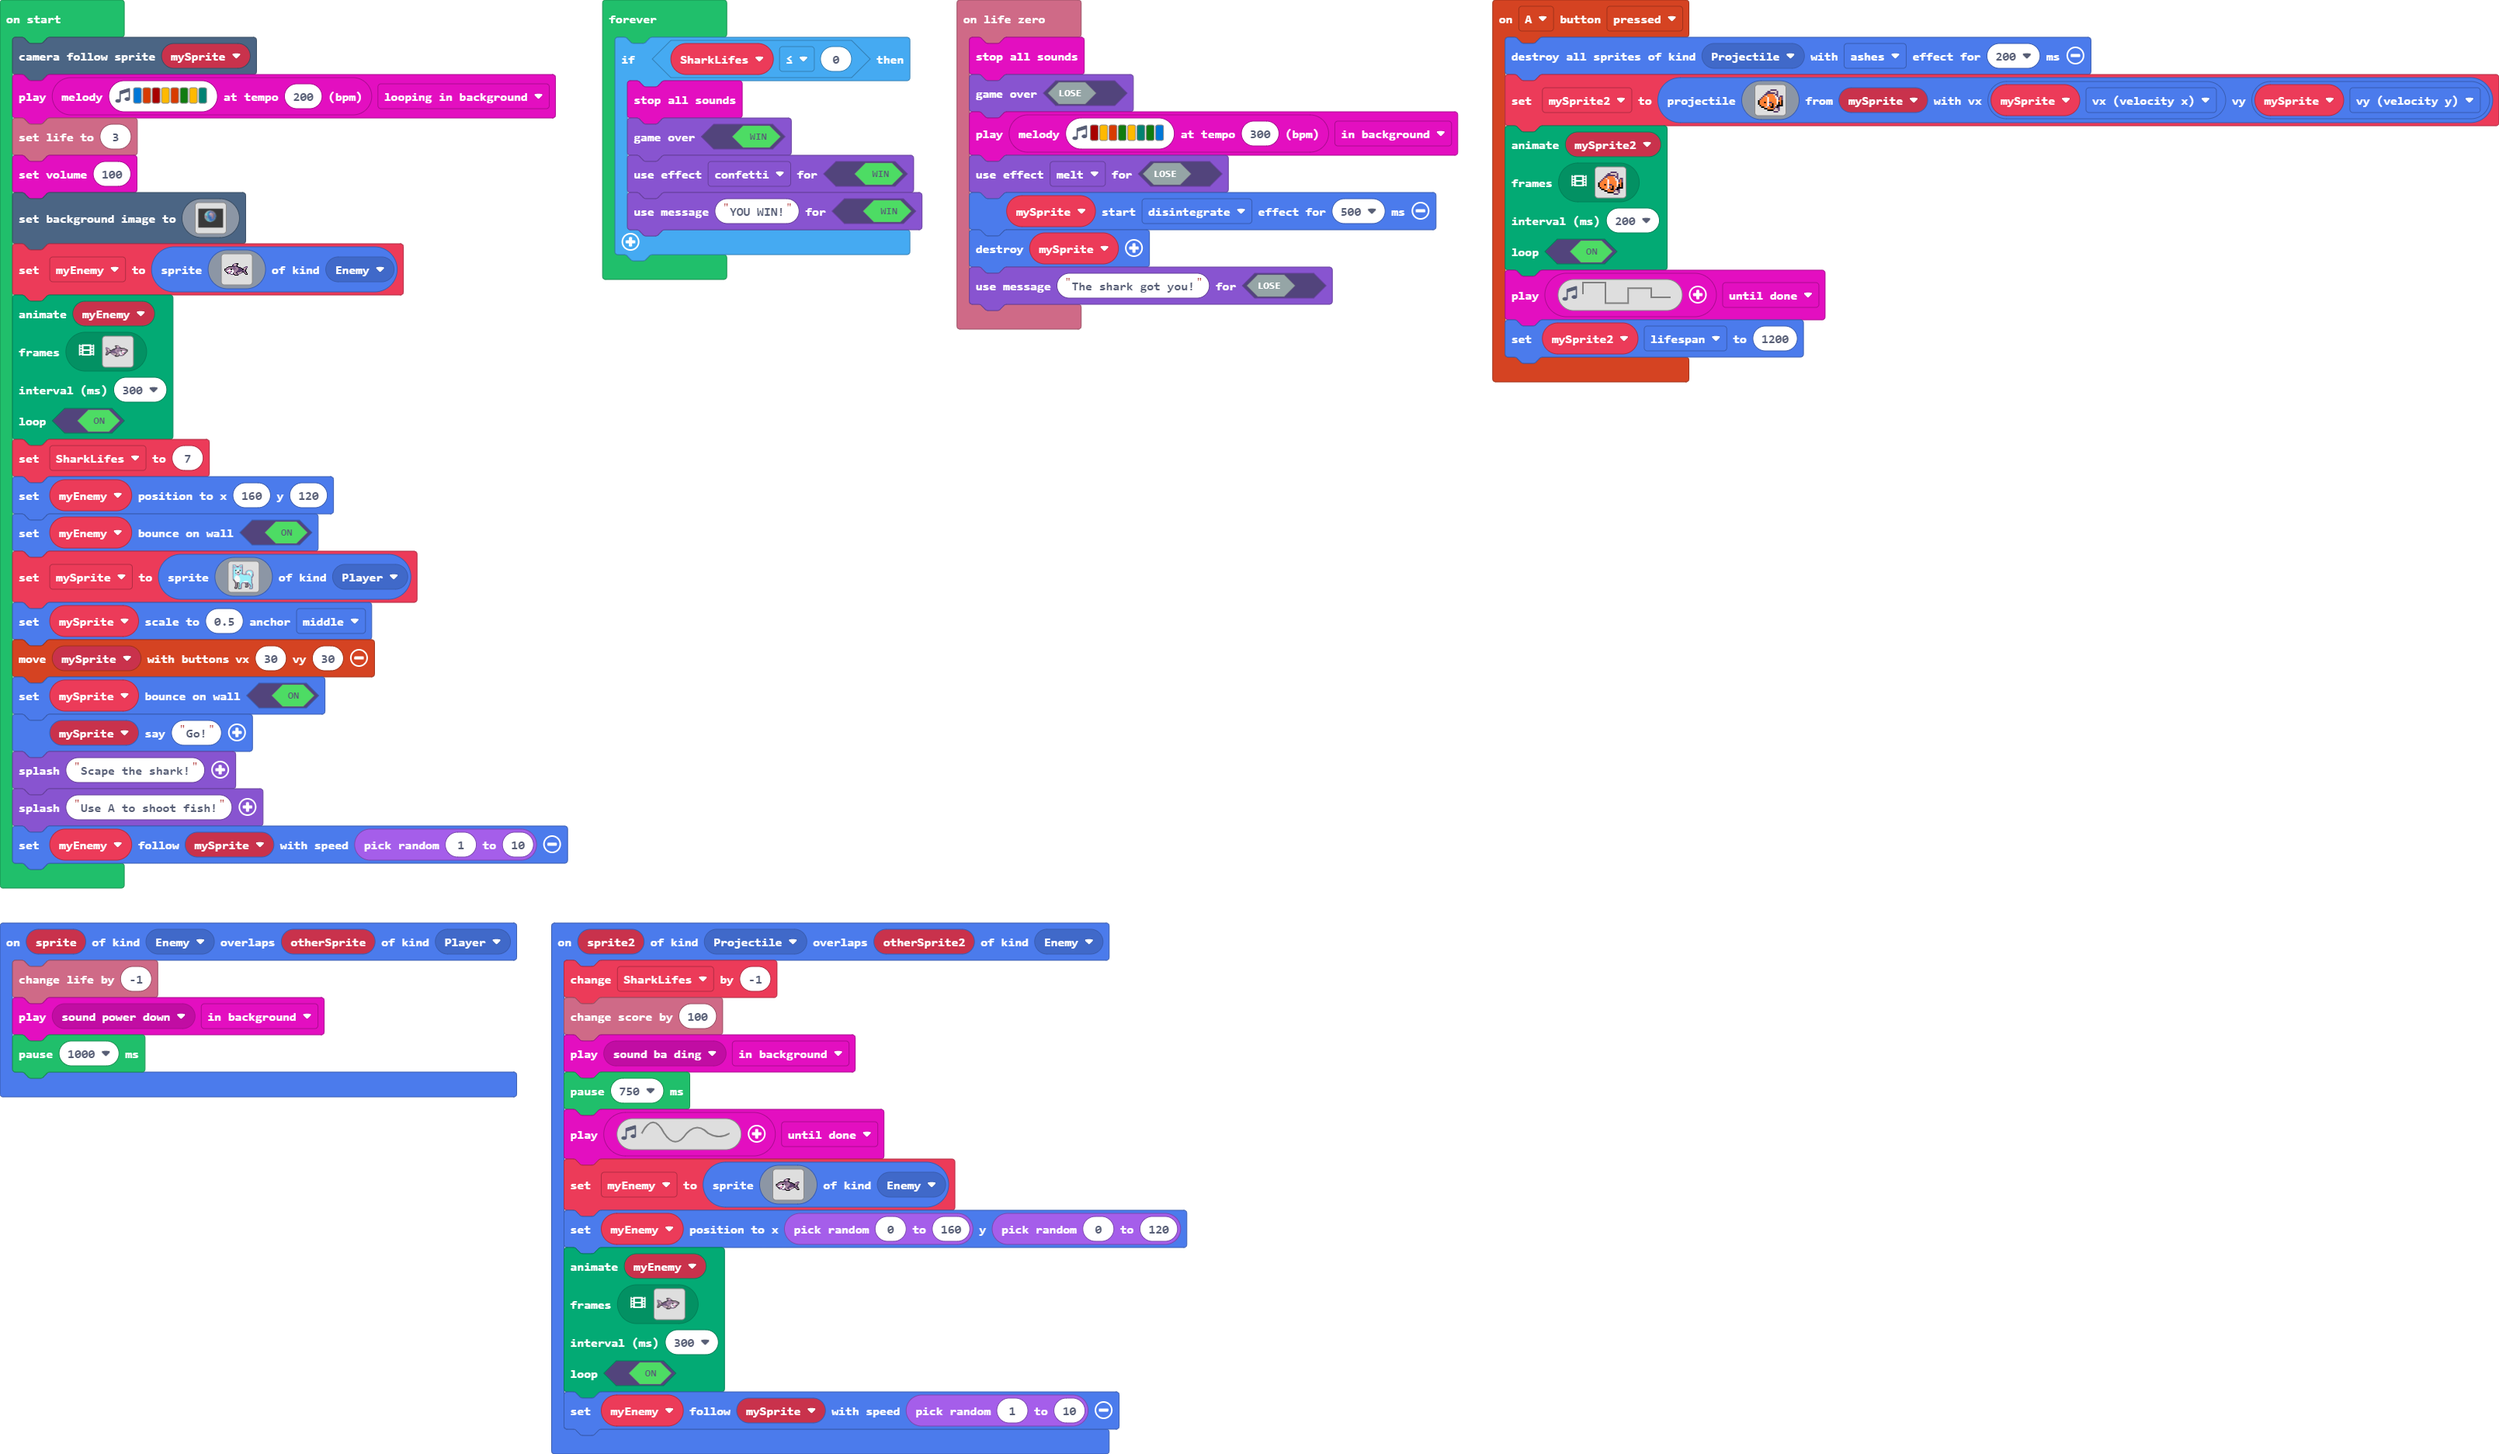
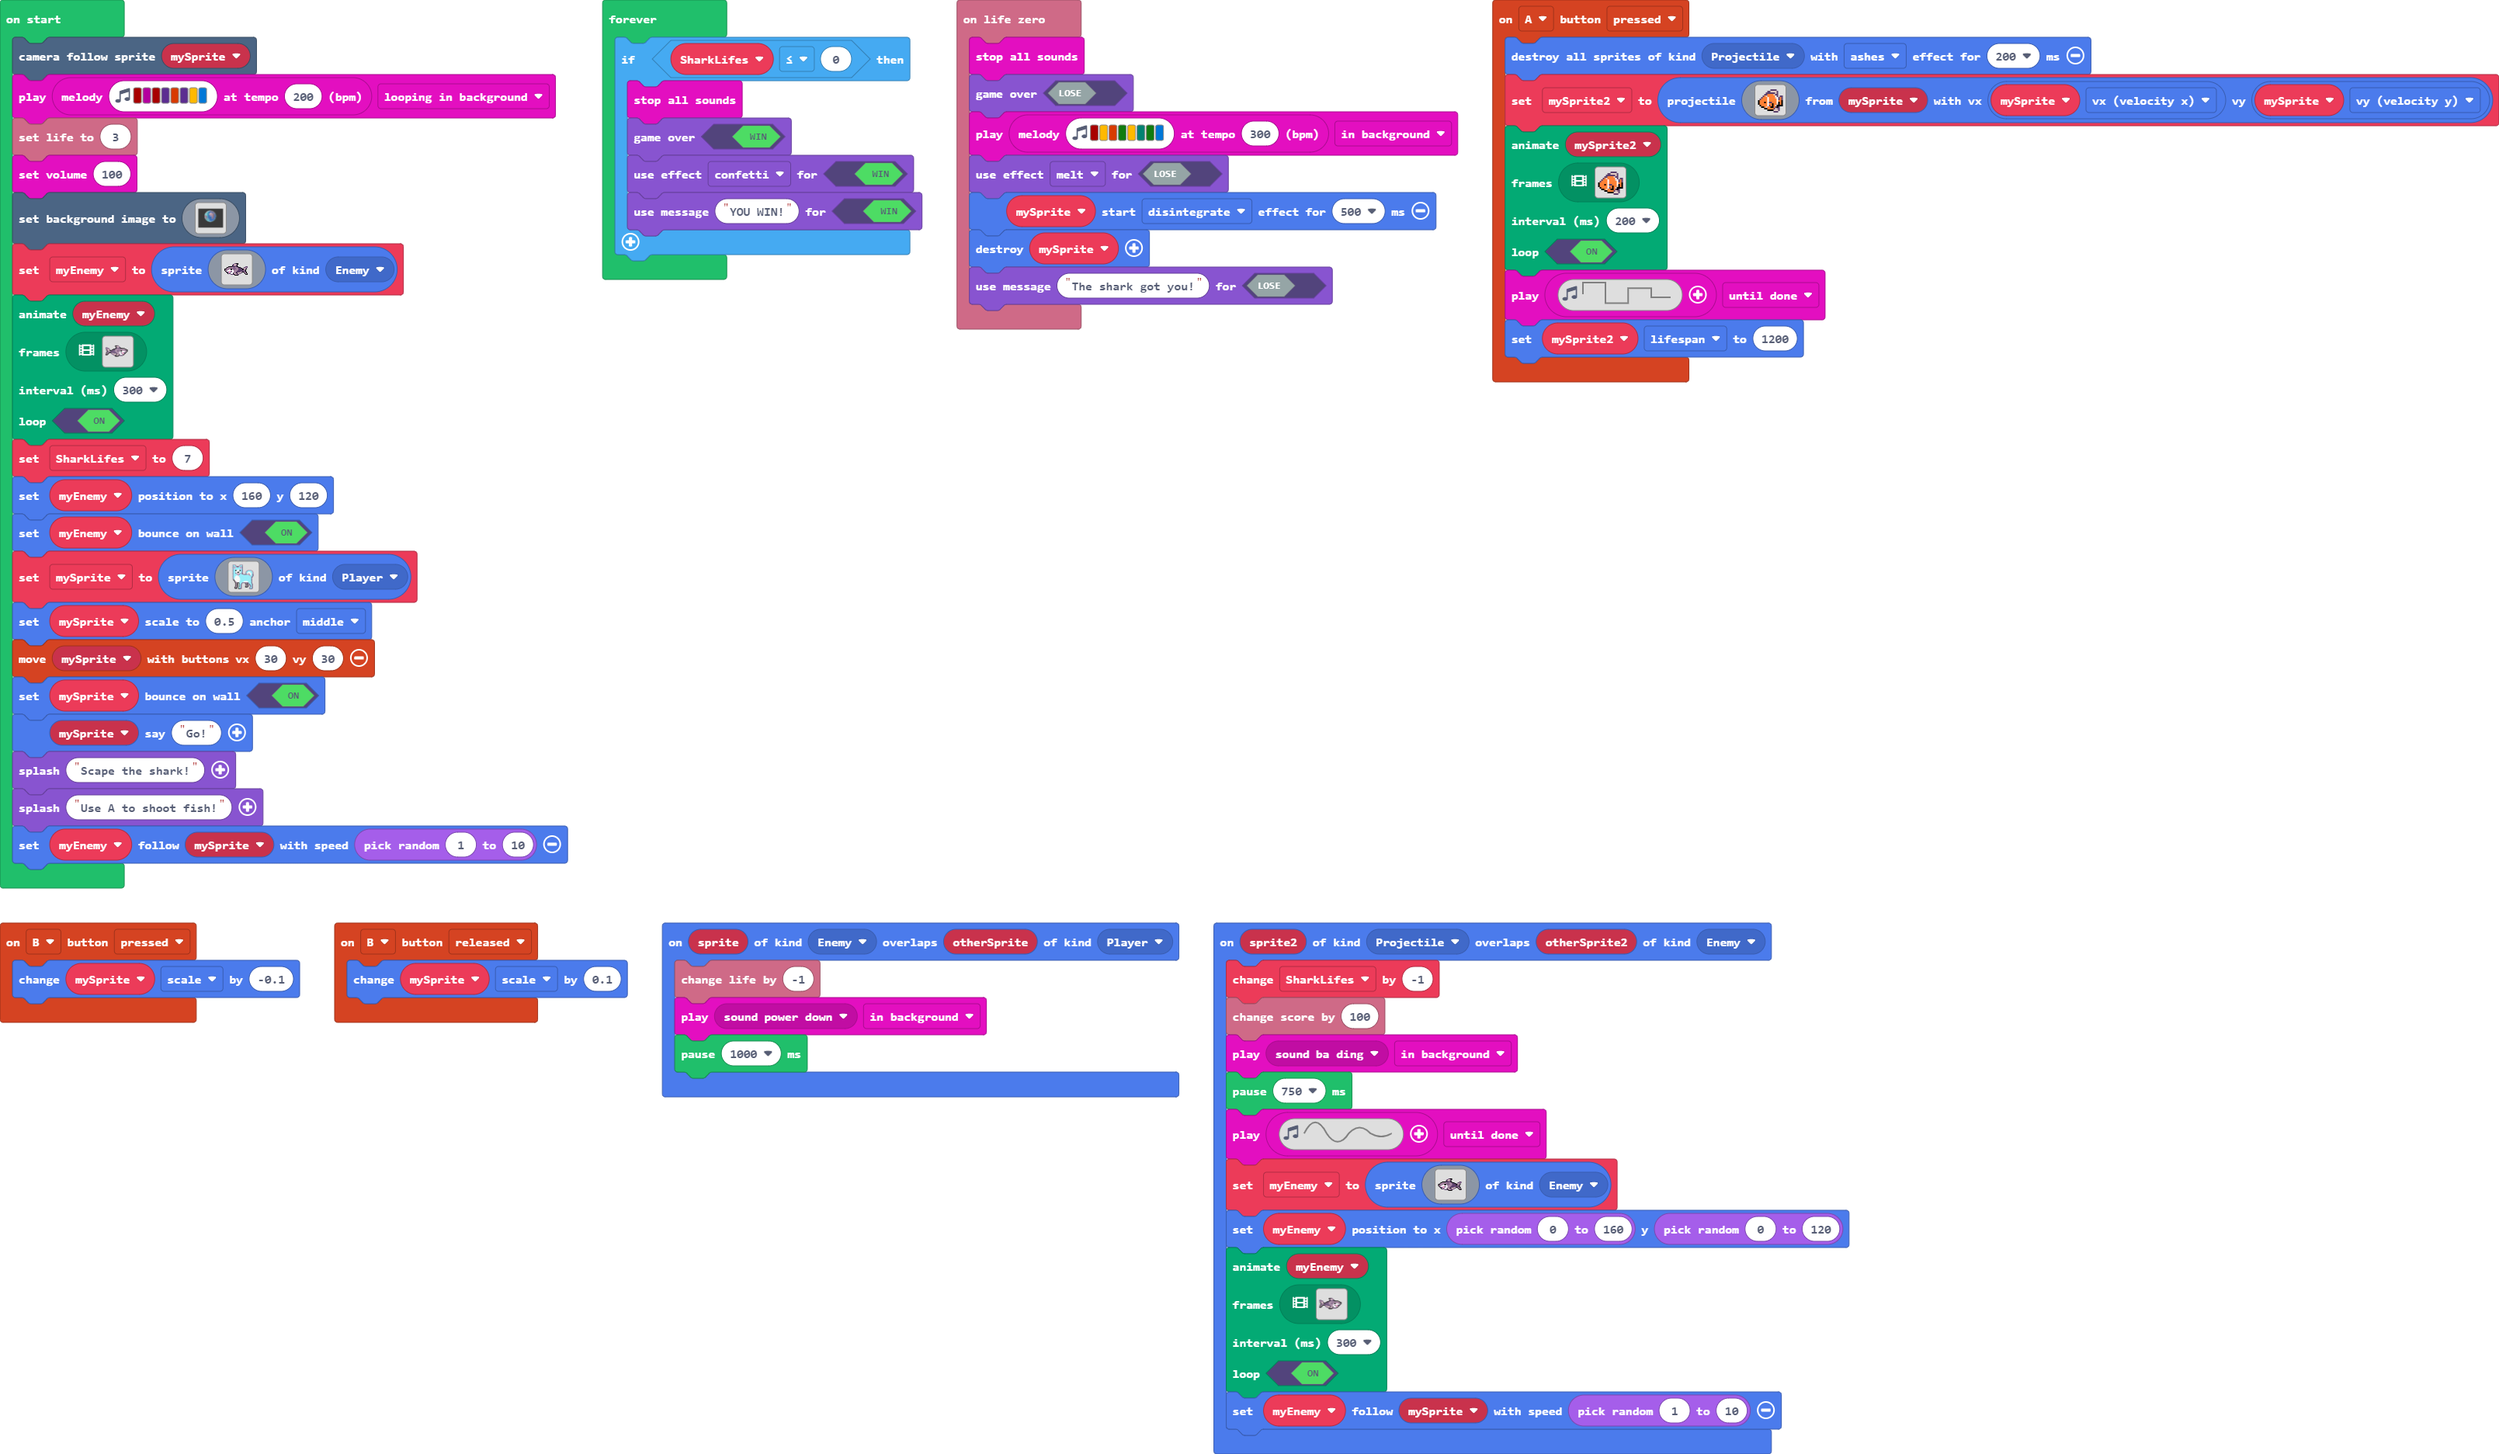
Changing background music, adding B downscale functionallity

Changed region(s): [[0.0, 0.6193, 0.7456, 1.0]]

diff --git a/main.ts b/main.ts
@@ -1,3 +1,6 @@
+controller.B.onEvent(ControllerButtonEvent.Pressed, function () {
+    mySprite.scale += -0.1
+})
 controller.A.onEvent(ControllerButtonEvent.Pressed, function () {
     sprites.destroyAllSpritesOfKind(SpriteKind.Projectile, effects.ashes, 200)
     mySprite2 = sprites.createProjectileFromSprite(assets.image`Fish1`, mySprite, mySprite.vx, mySprite.vy)
@@ -24,6 +27,9 @@ info.onLifeZero(function () {
     mySprite.destroy()
     game.setGameOverMessage(false, "The shark got you!")
 })
+controller.B.onEvent(ControllerButtonEvent.Released, function () {
+    mySprite.scale += 0.1
+})
 sprites.onOverlap(SpriteKind.Projectile, SpriteKind.Enemy, function (sprite2, otherSprite2) {
     SharkLifes += -1
     info.changeScoreBy(100)
@@ -44,7 +50,7 @@ let mySprite2: Sprite = null
 let myEnemy: Sprite = null
 let mySprite: Sprite = null
 scene.cameraFollowSprite(mySprite)
-music.play(music.stringPlayable("E B C5 A B G A F ", 200), music.PlaybackMode.LoopingInBackground)
+music.play(music.stringPlayable("C5 C C5 D B D A E ", 200), music.PlaybackMode.LoopingInBackground)
 info.setLife(3)
 music.setVolume(100)
 scene.setBackgroundImage(assets.image`Earth`)
